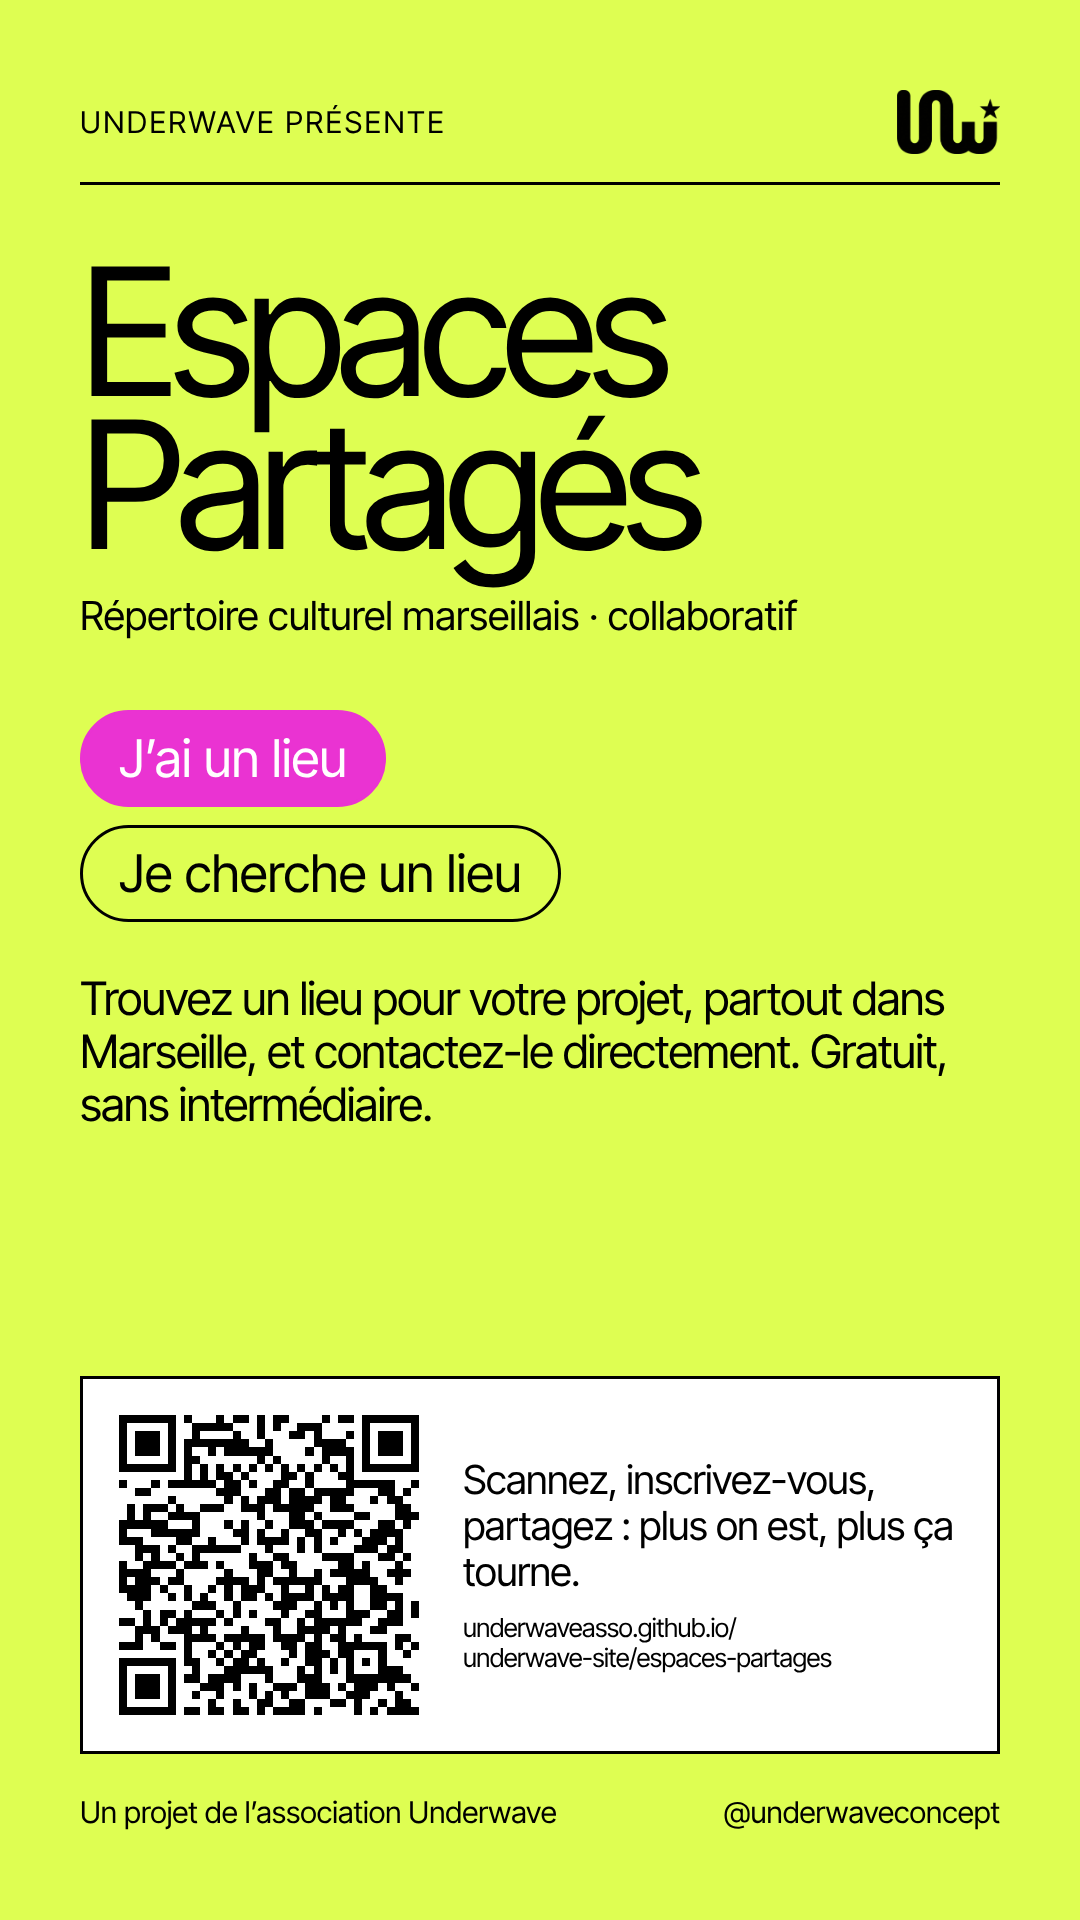
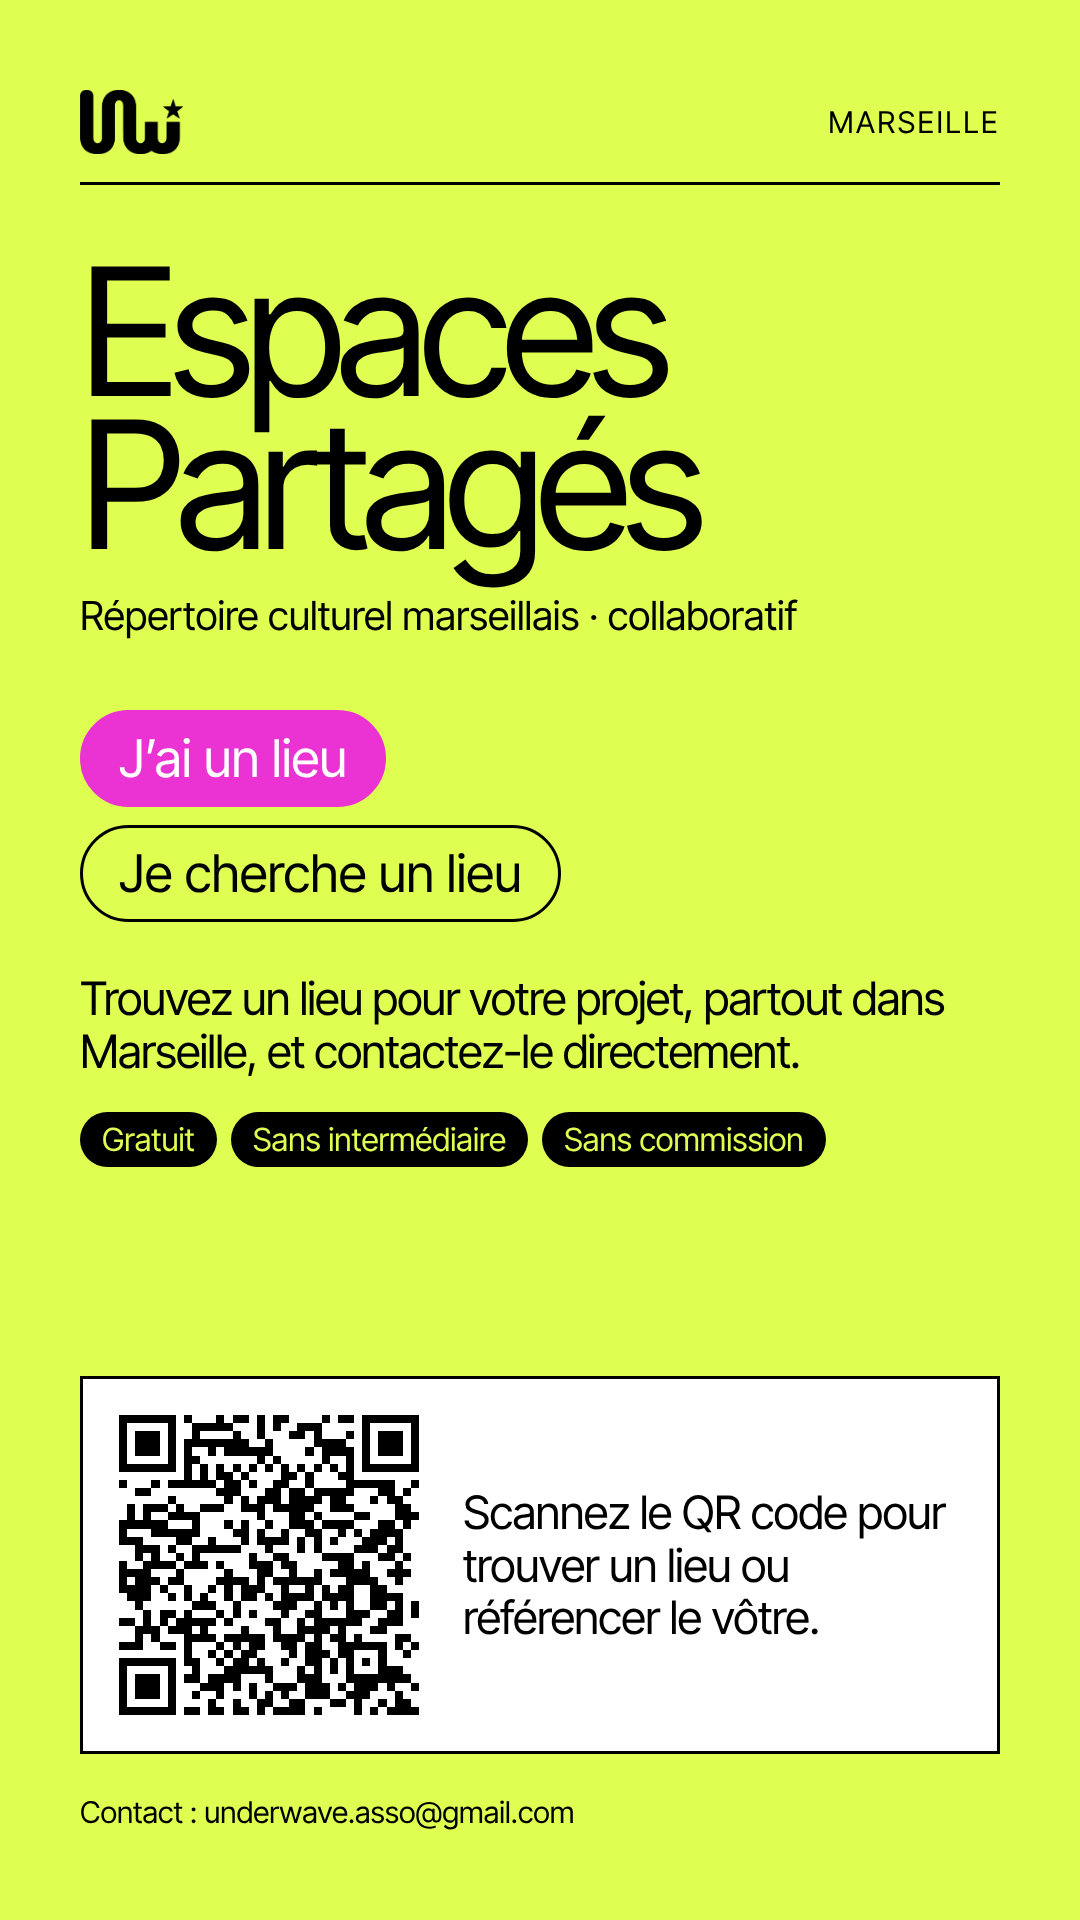
Espaces Partagés : textes de la partie partage et de l'image revus
Claude-Session: https://claude.ai/code/session_01SmD7gv1Sw8PREAcT3nTKPg

diff --git a/index.html b/index.html
@@ -141,7 +141,6 @@ a.row:hover{background:var(--lime)}
 .ep-btn{font:inherit;font-size:var(--small);cursor:pointer;border:1.5px solid var(--black);border-radius:999px;padding:.5em 1.1em;background:transparent;color:var(--black)}
 .ep-btn.dark{background:var(--black);color:var(--white)}
 .ep-btn:hover{background:var(--magenta);border-color:var(--magenta);color:var(--white)}
-.ep-url{overflow-wrap:anywhere}
 .ep-legal{margin-top:24px}.ep-legal a{text-decoration:underline}
 @media (max-width:700px){.ep-share-in{grid-template-columns:1fr}.ep-share-in img{max-width:260px}}
 @media (max-width:860px){.p-body{grid-template-columns:1fr}}
@@ -299,13 +298,12 @@ a.row:hover{background:var(--lime)}
   </div>
   <section class="ep-share">
     <div class="g ep-share-in">
-      <img src="img/espaces-partages-story.png" alt="Story Instagram Espaces Partagés avec un QR code vers le site du projet" width="1080" height="1920">
+      <img src="img/espaces-partages-story.png" alt="Image Espaces Partagés au format 1080 × 1920, avec un QR code vers le site du projet" width="1080" height="1920">
       <div class="ep-share-txt">
         <span class="kicker">Partager le projet</span>
-        <p class="ep-share-big">Vous avez un lieu ? Vous cherchez un lieu ? Faites tourner.</p>
-        <p class="s">Plus il y a de lieux et de projets inscrits, plus le répertoire est utile. Téléchargez l’image, mettez-la en story, et ajoutez le lien du site avec le sticker «&nbsp;Lien&nbsp;».<br>Sur téléphone, si le téléchargement ne démarre pas : appui long sur l’image, puis «&nbsp;Enregistrer&nbsp;».</p>
-        <div class="ep-share-btns"><a class="ep-btn dark" href="img/espaces-partages-story.png" download="espaces-partages-story.png">Télécharger la story</a><button class="ep-btn" type="button" id="ep-copy" data-url="https://underwaveasso.github.io/underwave-site/espaces-partages/">Copier le lien du site</button></div>
-        <p class="s ep-url">underwaveasso.github.io/underwave-site/espaces-partages/</p>
+        <p class="ep-share-big">Vous avez un lieu, ou vous en cherchez un ? Partagez le projet.</p>
+        <p class="s">Plus il y a de lieux et de projets inscrits, plus le répertoire est utile. Téléchargez l’image, publiez-la sur vos réseaux et ajoutez-y le lien du site.<br>Sur téléphone, si le téléchargement ne démarre pas : appui long sur l’image, puis «&nbsp;Enregistrer&nbsp;».</p>
+        <div class="ep-share-btns"><a class="ep-btn dark" href="img/espaces-partages-story.png" download="espaces-partages-1080x1920.png">Télécharger l’image (1080 × 1920)</a><button class="ep-btn" type="button" id="ep-copy" data-url="https://underwaveasso.github.io/underwave-site/espaces-partages/">Copier le lien du site</button></div>
       </div>
     </div>
   </section>
